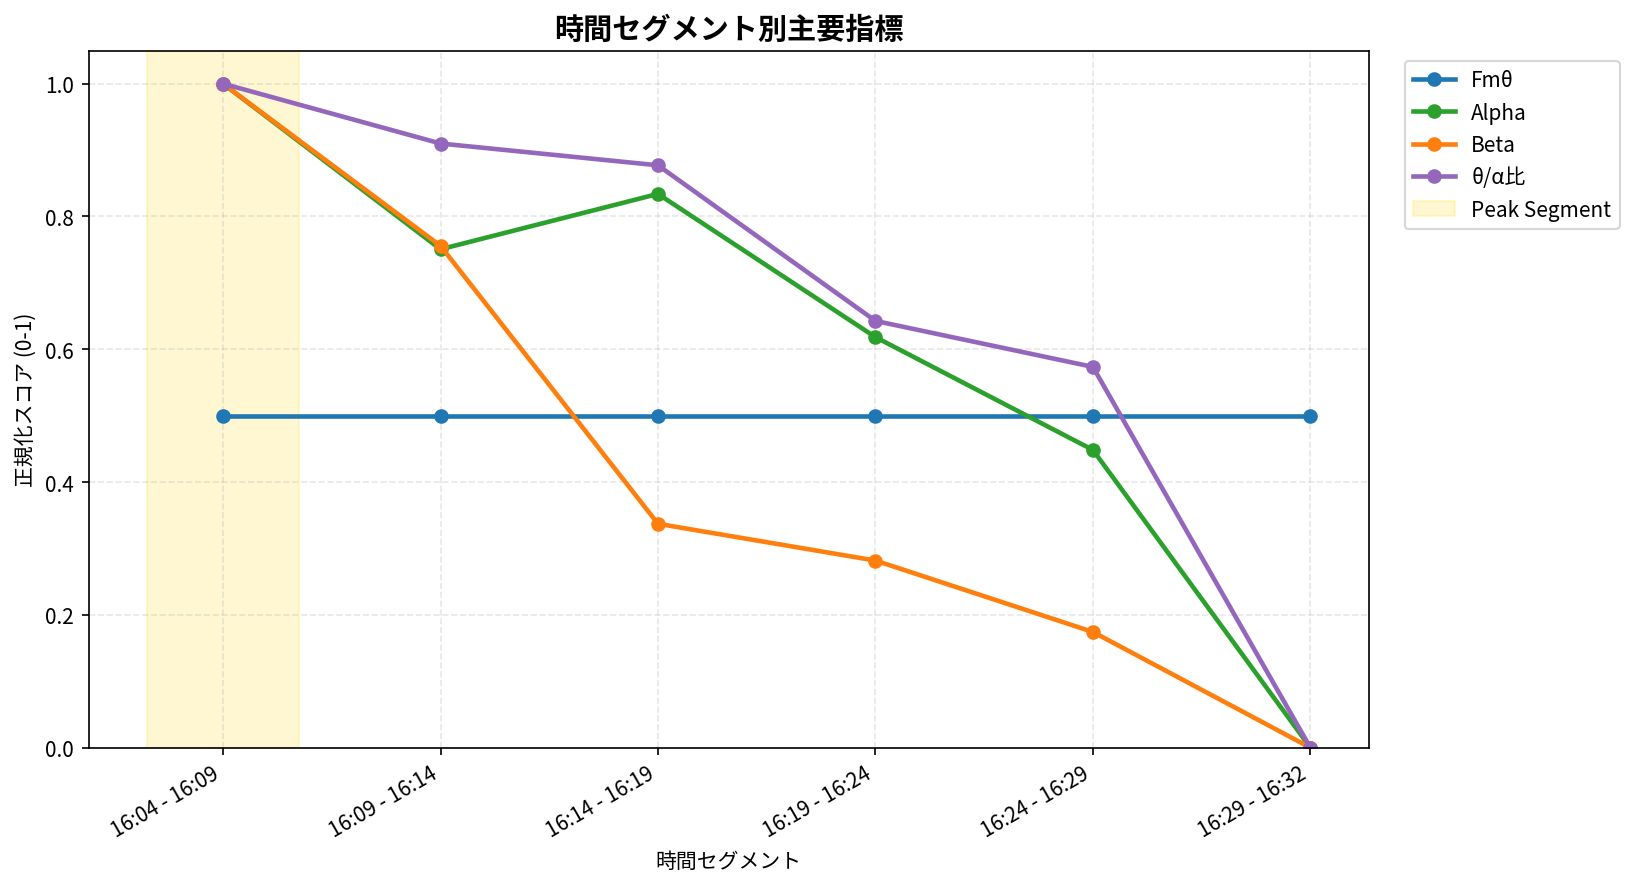
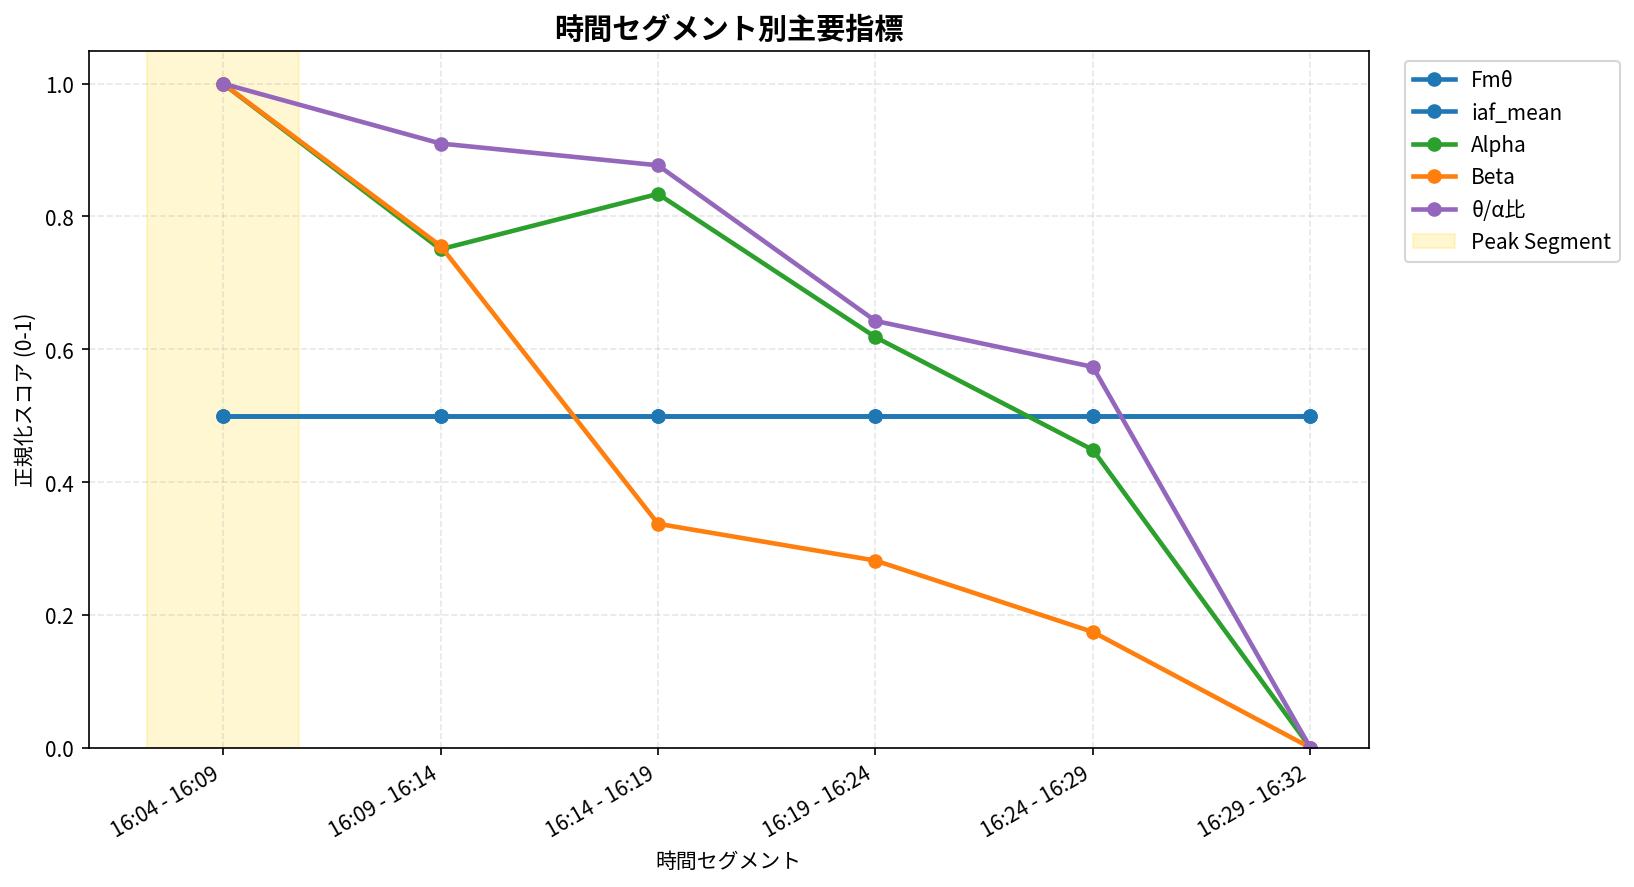
IAF追加

Changed region(s): [[0.8427, 0.1218, 0.9988, 0.3044]]

diff --git a/lib/eeg.py b/lib/eeg.py
@@ -56,6 +56,7 @@ def calculate_segment_analysis(
     fmtheta_series: pd.Series,
     segment_minutes: int = 5,
     band_means: Optional[Dict[str, pd.Series]] = None,
+    iaf_series: Optional[pd.Series] = None,
 ) -> SegmentAnalysisResult:
     """
     セッションを一定時間のセグメントに分割し、主要指標を算出する。
@@ -71,6 +72,8 @@ def calculate_segment_analysis(
     band_means : dict of pd.Series, optional
         事前計算されたバンド平均値の辞書 {'Alpha': series, 'Beta': series, 'Theta': series}。
         未指定の場合は内部で計算する。
+    iaf_series : pd.Series, optional
+        IAF（Individual Alpha Frequency）の時系列データ（indexはタイムスタンプ）。
 
     Returns
     -------
@@ -95,6 +98,10 @@ def calculate_segment_analysis(
 
     # Fmθ時系列
     fmtheta_series = fmtheta_series.sort_index()
+
+    # IAF時系列（渡されている場合）
+    if iaf_series is not None:
+        iaf_series = iaf_series.sort_index()
 
     # バンド別の平均値（外部から渡されない場合は内部で計算）
     if band_means is None:
@@ -131,6 +138,12 @@ def calculate_segment_analysis(
         fm_slice = fmtheta_series.loc[(fmtheta_series.index >= start) & (fmtheta_series.index < end)]
         fm_mean = fm_slice.mean()
 
+        # IAF平均（渡されている場合）
+        iaf_mean = np.nan
+        if iaf_series is not None:
+            iaf_slice = iaf_series.loc[(iaf_series.index >= start) & (iaf_series.index < end)]
+            iaf_mean = iaf_slice.mean()
+
         def _segment_mean(series: pd.Series) -> float:
             if series.empty:
                 return np.nan
@@ -159,6 +172,7 @@ def calculate_segment_analysis(
             'segment_start': start,
             'segment_end': end,
             'fmtheta_mean': fm_mean,
+            'iaf_mean': iaf_mean,
             'alpha_mean': alpha_mean,
             'beta_mean': beta_mean,
             'theta_mean': theta_mean,
@@ -175,15 +189,15 @@ def calculate_segment_analysis(
         raise ValueError('時間セグメント分析の結果が空です。')
 
     # 正規化スコア
-    numeric_cols = ['fmtheta_mean', 'alpha_mean', 'beta_mean', 'theta_alpha_ratio']
+    numeric_cols = ['fmtheta_mean', 'iaf_mean', 'alpha_mean', 'beta_mean', 'theta_alpha_ratio']
     metrics_df = segment_frame.set_index('segment_index')[numeric_cols]
     normalized = pd.DataFrame(
         {col: _min_max_normalize(metrics_df[col]) for col in metrics_df.columns}
     )
     normalized = normalized.reindex(metrics_df.index)
 
-    # ピーク判定（Fmθとθ/α比の平均）
-    peak_candidates = normalized[['fmtheta_mean', 'theta_alpha_ratio']]
+    # ピーク判定（Fmθ、IAF、θ/α比の平均）
+    peak_candidates = normalized[['fmtheta_mean', 'iaf_mean', 'theta_alpha_ratio']]
     peak_candidates = peak_candidates.dropna(how='all')
     if peak_candidates.empty:
         peak_idx = None
@@ -199,6 +213,7 @@ def calculate_segment_analysis(
             'セグメント': f"セグメント{int(row['segment_index'])}",
             '時間帯': row['label'],
             'Fmθ平均 (μV²)': row['fmtheta_mean'],
+            'IAF平均 (Hz)': row['iaf_mean'],
             'Alpha平均 (μV²)': row['alpha_mean'],
             'Beta平均 (μV²)': row['beta_mean'],
             'θ/α比': row['theta_alpha_ratio'],

diff --git a/issues/003_improve_daily_report/generate_report.py b/issues/003_improve_daily_report/generate_report.py
@@ -478,10 +478,20 @@ def run_full_analysis(data_path, output_dir):
     # 時間セグメント分析
     try:
         print('計算中: 時間セグメント分析...')
+
+        # IAF時系列の準備（PAF時間推移から）
+        iaf_series = None
+        if 'paf_time_img' in results and paf_time_dict:
+            # PAF時間推移のタイムスタンプとIAF値をSeriesに変換
+            session_start = df['TimeStamp'].iloc[0]
+            iaf_times = pd.to_datetime(session_start) + pd.to_timedelta(paf_time_dict['times'], unit='s')
+            iaf_series = pd.Series(paf_time_dict['paf_smoothed'], index=iaf_times)
+
         segment_result = calculate_segment_analysis(
             df_quality,
             fmtheta_result.time_series,
             segment_minutes=5,
+            iaf_series=iaf_series,
         )
         print('プロット中: 時間セグメント比較...')
         segment_plot_name = 'time_segment_metrics.png'

diff --git a/issues/003_improve_daily_report/REPORT.md b/issues/003_improve_daily_report/REPORT.md
@@ -1,6 +1,6 @@
 # Muse脳波データ分析レポート
 
-- **生成日時**: 2025-10-31 21:40:20
+- **生成日時**: 2025-10-31 21:52:05
 - **データファイル**: `mindMonitor_2025-10-31--16-04-01_7679417574001279836.csv`
 - **記録時間**: 2025-10-31 16:04:02 ~ 2025-10-31 16:32:24
 - **計測時間**: 28.4 分
@@ -17,7 +17,7 @@
 
 ### ピークパフォーマンス
 
-- **最高パフォーマンス区間**: 16:04 - 16:09 (スコア: 0.75)
+- **最高パフォーマンス区間**: 16:04 - 16:09 (スコア: 0.67)
 
 ## 🧠 周波数帯域分析
 
@@ -106,12 +106,12 @@
 
 ### 詳細データ
 
-| セグメント   | 時間帯        |   Fmθ平均 (μV²) |   Alpha平均 (μV²) |   Beta平均 (μV²) |   θ/α比 | 備考          | ピーク   |
-|:-------------|:--------------|----------------:|------------------:|-----------------:|--------:|:--------------|:---------|
-| セグメント1  | 16:04 - 16:09 |          14.894 |             0.924 |            0.280 |   0.102 |               | ★        |
-| セグメント2  | 16:09 - 16:14 |         nan     |             0.856 |            0.221 |   0.072 | Fmθデータ不足 |          |
-| セグメント3  | 16:14 - 16:19 |         nan     |             0.879 |            0.120 |   0.061 | Fmθデータ不足 |          |
-| セグメント4  | 16:19 - 16:24 |         nan     |             0.820 |            0.107 |  -0.018 | Fmθデータ不足 |          |
-| セグメント5  | 16:24 - 16:29 |         nan     |             0.774 |            0.081 |  -0.042 | Fmθデータ不足 |          |
-| セグメント6  | 16:29 - 16:32 |         nan     |             0.653 |            0.039 |  -0.235 | Fmθデータ不足 |          |
+| セグメント   | 時間帯        |   Fmθ平均 (μV²) |   IAF平均 (Hz) |   Alpha平均 (μV²) |   Beta平均 (μV²) |   θ/α比 | 備考          | ピーク   |
+|:-------------|:--------------|----------------:|---------------:|------------------:|-----------------:|--------:|:--------------|:---------|
+| セグメント1  | 16:04 - 16:09 |          14.894 |         10.520 |             0.924 |            0.280 |   0.102 |               | ★        |
+| セグメント2  | 16:09 - 16:14 |         nan     |        nan     |             0.856 |            0.221 |   0.072 | Fmθデータ不足 |          |
+| セグメント3  | 16:14 - 16:19 |         nan     |        nan     |             0.879 |            0.120 |   0.061 | Fmθデータ不足 |          |
+| セグメント4  | 16:19 - 16:24 |         nan     |        nan     |             0.820 |            0.107 |  -0.018 | Fmθデータ不足 |          |
+| セグメント5  | 16:24 - 16:29 |         nan     |        nan     |             0.774 |            0.081 |  -0.042 | Fmθデータ不足 |          |
+| セグメント6  | 16:29 - 16:32 |         nan     |        nan     |             0.653 |            0.039 |  -0.235 | Fmθデータ不足 |          |
 
